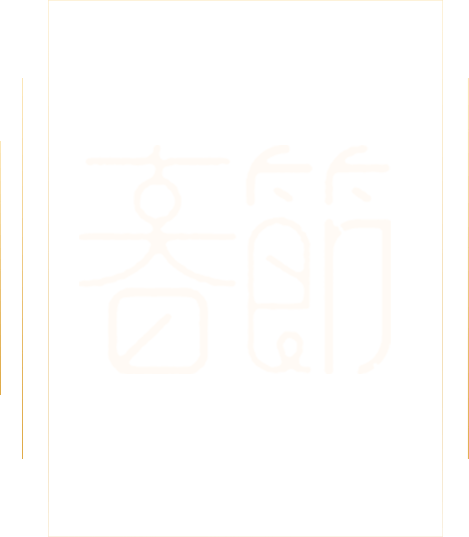
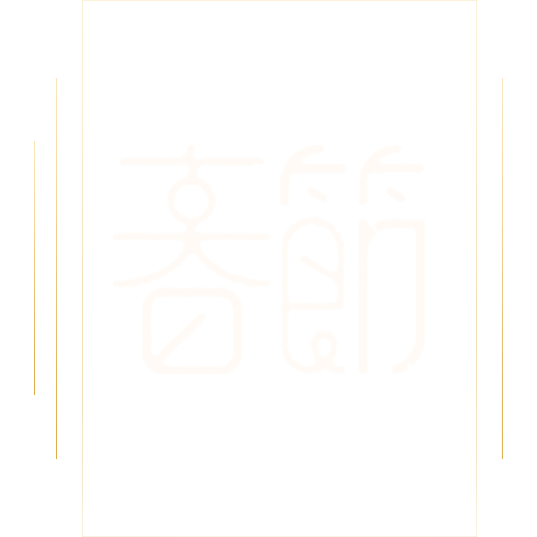
优化完善

diff --git a/index.html b/index.html
@@ -65,10 +65,9 @@
         }
         .card-wrap{
             height: calc(100% - 132px);
-            min-height: 400px;
+            width: 19rem;
+            margin: auto;
             position: relative;
-            padding: 0 .5rem;
-            overflow: hidden;
         }
         .ctrl-wrap{
             height: 60px;
@@ -111,11 +110,7 @@
             background-image: url(./images/style_4/bg.png);
         }
         .card.active{
-            display: flex;
-            display: -webkit-flex;
-            flex-direction: column;
-            align-items: center;
-            justify-content: space-around;
+            display: block;
         }
         .input-area > input{
             display: block;
@@ -127,14 +122,18 @@
         }
         .card > .word-area,
         .card > .input-area{
-            width: 14rem;
             box-sizing: border-box;
+            position: absolute;
+            margin: auto;
+            left: 0;
+            right: 0;
         }
         .card > .word-area{
-            height: 14rem;
-            padding: 4.5rem 4rem;
+            color: #ee3c21;
+            font-family: 'ruibo10208c255a1be8b';
             text-align: center;
-            background-size: 100% 100%;
+            background-size: contain;
+            background-position: center;
             background-repeat: no-repeat;
         }
 
@@ -156,6 +155,7 @@
         }
 
         .card > .input-area{
+            width: 14rem;
             height: 2.425612rem;
             padding: 4px 10px;
             background-size: 14rem 2.425612rem;
@@ -222,28 +222,28 @@
     </section>
     <section class="card-wrap">
         <div class="card one animated active">
-            <div class="word-area css10208c255a1be8b">新年快乐！新年快乐！新年快乐！新年快乐！新年快乐！新年快乐！新年快乐！新年快乐！</div>
+            <div class="word-area flex alicen justcen">新年快乐！新年快乐！新年快乐！新年快乐！新年快乐！新年快乐！新年快乐！新年快乐！</div>
             <div class="input-area">
                 <input type="text" placeholder="请输入您的名字">
             </div>
             <img src="./images/logo_QRcode.jpeg" alt="" class="qrcode">
         </div>
         <div class="card two animated">
-            <div class="word-area">新年快乐！新年快乐！新年快乐！新年快乐！新年快乐！新年快乐！新年快乐！新年快乐！</div>
+            <div class="word-area flex alicen justcen">新年快乐！新年快乐！新年快乐！新年快乐！新年快乐！新年快乐！新年快乐！新年快乐！</div>
             <div class="input-area">
                 <input type="text" placeholder="请输入您的名字">
             </div>
             <img src="./images/logo_QRcode.jpeg" alt="" class="qrcode">
         </div>
         <div class="card thre animated">
-            <div class="word-area">新年快乐！新年快乐！新年快乐！新年快乐！新年快乐！新年快乐！新年快乐！新年快乐！</div>
+            <div class="word-area flex alicen justcen">新年快乐！新年快乐！新年快乐！新年快乐！新年快乐！新年快乐！新年快乐！新年快乐！</div>
             <div class="input-area">
                 <input type="text" placeholder="请输入您的名字">
             </div>
             <img src="./images/logo_QRcode.jpeg" alt="" class="qrcode">
         </div>
         <div class="card four animated">
-            <div class="word-area">新年快乐！新年快乐！新年快乐！新年快乐！新年快乐！新年快乐！新年快乐！新年快乐！</div>
+            <div class="word-area flex alicen justcen">新年快乐！新年快乐！新年快乐！新年快乐！新年快乐！新年快乐！新年快乐！新年快乐！</div>
             <div class="input-area">
                 <input type="text" placeholder="请输入您的名字">
             </div>
@@ -270,8 +270,10 @@
             var ctx = mycan.getContext('2d')
             var curIndex = 0
             var canShake = true
-            var cur_card, next_card, cur_logo, next_logo;
+            var rand = 0
+            var cur_card, next_card, cur_logo, next_logo, bless;
 
+            const PROPORTION = 670/966
             const BLESS = [
                 [
                     {
@@ -406,7 +408,7 @@
                         top: 460,
                         left: 150,
                         size: 30,
-                        txts: ['想与你一同在十里云海翻腾', '          旋转跳跃不停歇']
+                        txts: ['想与你一同在十里云海翻腾', '\n\n\n\n\n旋转跳跃不停歇']
                     },
                     {
                         dir: 'vertical',
@@ -422,7 +424,7 @@
                         top: 420,
                         left: 220,
                         size: 36,
-                        txts: ['新年好  新年到', '     棉裤一脱', ' 春姑娘就来了']
+                        txts: ['新年好\n新年到', '棉裤一脱', '春姑娘就来了']
                     },
                     {
                         dir: 'horizontal',
@@ -430,7 +432,7 @@
                         top: 366,
                         left: 210,
                         size: 26,
-                        txts: ['   为了不让新年计划', '   到最后都实现不了', '你应该从新年第一天', '        就开始努力', '                ....', '努力不要制定新年计划']
+                        txts: ['\n\n为了不让新年计划', '\n\n到最后都实现不了', '\n你应该从新年第一天', '\n\n\n\n\n就开始努力', '\n\n\n\n\n\n\n\n\n....', '努力不要制定新年计划']
                     },
                     {
                         dir: 'horizontal',
@@ -438,7 +440,7 @@
                         top: 410,
                         left: 190,
                         size: 26,
-                        txts: ['我的新年愿望是新的一年', '      不要像现在一样穷', '        后来愿望实现了', '    ╥﹏╥我比现在更穷了']
+                        txts: ['我的新年愿望是新的一年', '\n\n\n不要像现在一样穷', '\n\n\n\n后来愿望实现了', '\n\n╥﹏╥我比现在更穷了']
                     },
                     {
                         dir: 'horizontal',
@@ -446,7 +448,7 @@
                         top: 380,
                         left: 220,
                         size: 28,
-                        txts: ['新年想送你一辆车', '    可惜汽车太贵', '         火车太长', '      自行车太累', '    还是送你风车', '      经济又实惠']
+                        txts: ['新年想送你一辆车', '\n\n可惜汽车太贵', '\n\n\n\n火车太长', '\n\n\n自行车太累', '\n\n还是送你风车', '\n\n\n经济又实惠']
                     },
                     {
                         dir: 'horizontal',
@@ -458,6 +460,8 @@
                     }
                 ]
             ]
+
+            bless = BLESS[curIndex]
 
             function listening() {
                 cards.forEach(function(card){
@@ -483,8 +487,12 @@
                 cur_card = cards[curIndex]
                 cur_logo = logos[curIndex]
                 curIndex = (++curIndex)%4
-                next_card =  cards[curIndex]
-                next_logo =  logos[curIndex]
+                next_card = cards[curIndex]
+                next_logo = logos[curIndex]
+                bless = BLESS[curIndex]
+                rand = ~~(Math.random()*bless.length)
+
+                next_card.children[0].style.color = bless[rand].color
 
                 cur_logo.classList.add('fadeOut')
                 next_logo.classList.add('active')
@@ -504,20 +512,18 @@
                 var _h = mycan.height
                 var w = window.innerWidth
                 var h = window.innerHeight - 140
-                var bless = BLESS[curIndex]
-                var rand = ~~(Math.random()*bless.length)
                 var top = 0
                 var left = 0
                 var size = 40
                 var color = '#FFF'
                 var dirIsVertical = true
+                var _bless = bless[rand]
 
-                bless = bless[rand]
-                top = bless.top
-                left = bless.left
-                size = bless.size
-                color = bless.color || color
-                dirIsVertical = bless.dir === 'vertical'
+                top = _bless.top
+                left = _bless.left
+                size = _bless.size
+                color = _bless.color || color
+                dirIsVertical = _bless.dir === 'vertical'
 
                 w = h*(_w/_h)
 
@@ -526,7 +532,7 @@
                 ctx.fillRect(0, 0, _w, _h)
                 ctx.drawImage(bgs[curIndex], 0, 0, _w, _h)
 
-                bless.txts.forEach(function(txt){
+                _bless.txts.forEach(function(txt){
                     var len = txt.length >> 0
                     var i = 0
                     var _top = top
@@ -550,6 +556,34 @@
                 view.classList.add('active')
             }
 
+            function layout() {
+                var ww, wp, wt, it;
+                var cardWrap = document.querySelector('section.card-wrap')
+                var rect = cardWrap.getBoundingClientRect()
+                var w = rect.width
+                var h = rect.height
+                var isWider = (w/h) > PROPORTION
+
+                const WORDPADS = [180, 110, 100, 130]
+                const WORDWIDTHS = [676, 577, 537, 579]
+                const WORDTOPS = [64, 78, 118, 80]
+                const INPUTTOPS = [596, 596, 596, 630]
+
+                h = isWider ? h : w/PROPORTION
+
+                cards.forEach(function(card, index){
+                    var eWord = card.children[0]
+                    var eInput = card.children[1]
+                    ww = PROPORTION*h*(WORDWIDTHS[index]/679)
+                    wt = PROPORTION*h*(WORDTOPS[index]/608)
+                    it = PROPORTION*h*(INPUTTOPS[index]/608)
+                    wp = PROPORTION*h*(WORDPADS[index]/608)
+                    eWord.style.cssText = 'width:' + ww + 'px;height:' + ww + 'px;top:' + wt + 'px;padding:' + wp + 'px;'
+                    eInput.style.cssText = 'top:' + it + 'px;'
+                })
+            }
+
+            layout()
             listening()
         }
 
